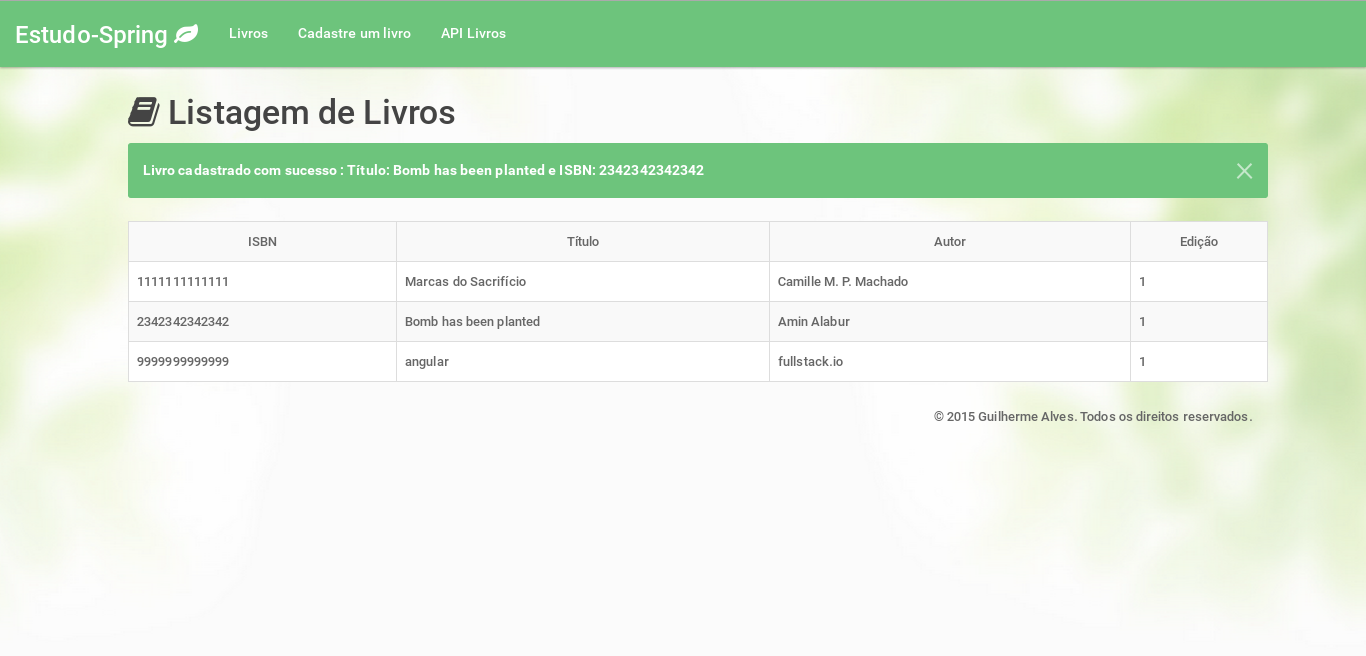
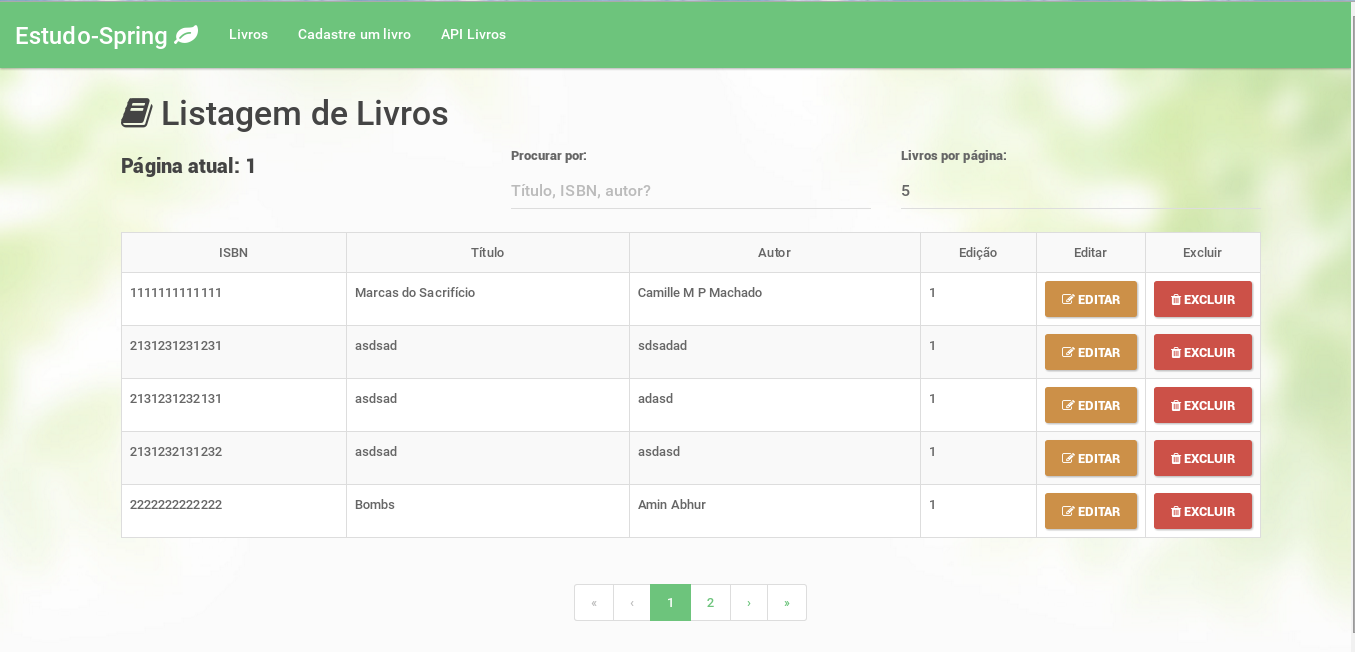
Implementando paginação para a lista de livros. Versão 1.2.1-RC4.

diff --git a/src/main/webapp/app/assets/dist/scripts/scripts.min.js b/src/main/webapp/app/assets/dist/scripts/scripts.min.js
@@ -1,6 +1,6 @@
 /*!
- * estudo-spring v1.2.0-RC4 (http://github.com/gsag/estudo-spring)
- * 31/10/2015 Guilherme Alves <gsag.dh@gmail.com>
+ * estudo-spring v1.2.1-RC4 (http://github.com/gsag/estudo-spring)
+ * 02/11/2015 Guilherme Alves <gsag.dh@gmail.com>
  * Licensed under the MIT license
  */
-!function(){"use strict";angular.module("bookcaseApp",["ui.router","ngStorage","ui.mask","restangular","ngMessages"]),angular.module("bookcaseApp").constant("$config",{baseUrl:"http://localhost:9090",bookApi:"/bookcase/api/",projectName:"Estudo-Spring"}),angular.module("bookcaseApp").config(function($stateProvider,$urlRouterProvider,$config,RestangularProvider){RestangularProvider.setBaseUrl($config.baseUrl+$config.bookApi),$stateProvider.state("bookcase",{url:"/bookcase",templateUrl:"assets/views/partial-bookcase.html",controller:"bookcaseController"}).state("books",{url:"/bookcase/books",templateUrl:"assets/views/partial-books.html",controller:"bookcaseController"}).state("register",{url:"/bookcase/register",templateUrl:"assets/views/partial-register-book.html",controller:"registerBookController"}),$urlRouterProvider.otherwise("/bookcase")}).run(function($state){$state.go("bookcase")})}(),function(){"use strict";angular.module("bookcaseApp").controller("bookcaseController",function($scope,bookcaseService,$localStorage,HTTPCache,$state,$stateParams){$scope.errorMessage="",$scope.books={},$scope.hasBooks=!0,$scope.flashMessage="";var hasBooksLoaded=(function(){bookcaseService.getBooks().then(function(data){$scope.books=data},function(error){$scope.errorMessage="Aconteceu um problema ao resgatar os dados do servidor. Tente novamente mais tarde. "})["finally"](function(){hasBooksLoaded(),loadLocalFlashMessage(),cacheInit()})}(),function(){0===$scope.books.length?$scope.hasBooks=!1:$scope.hasBooks=!0}),loadLocalFlashMessage=function(){$scope.flashMessage=$localStorage.flashMessage,delete $localStorage.flashMessage},removeFromBookList=function(index){index>-1&&$scope.books.splice(index,1),hasBooksLoaded()};$scope.deleteBook=function(book){bookcaseService.deleteBook(book.isbn).then(function(response){var successResponse=response[Object.keys(response)[0]];$localStorage.flashMessage=successResponse;var index=$scope.books.indexOf(book);removeFromBookList(index),$state.transitionTo($state.current,$stateParams,{reload:!0,inherit:!1,notify:!0})},function(error){$scope.errorMessage="Aconteceu um problema ao resgatar os dados do servidor. Tente novamente mais tarde. "})};var cacheInit=function(){return HTTPCache.init()}})}(),function(){"use strict";angular.module("bookcaseApp").controller("navigationController",function($scope,$config){$scope.appName=$config.projectName,$scope.baseUrl=$config.baseUrl})}(),function(){"use strict";angular.module("bookcaseApp").controller("registerBookController",function($scope,$state,$localStorage,bookcaseService){$scope.newBook={isbn:"",title:"",author:"",edition:""},$scope.responseStyle="",$scope.response={};var resetFields=function(){return{isbn:"",title:"",author:"",edition:""}};$scope.registerNewBook=function(book){bookcaseService.createBook(book).then(function(response){var successResponse=response[Object.keys(response)[0]];$scope.newBook=resetFields(),$localStorage.flashMessage=successResponse,$state.transitionTo("books")},function(failedResponse){if(failedResponse.data){var badResponse=failedResponse.data[Object.keys(failedResponse.data)[0]];"WARNING"==badResponse.status?($scope.responseStyle="alert alert-warning",$scope.response=failedResponse.data):"ERROR"==badResponse.status&&($scope.responseStyle="alert alert-danger",$scope.response=failedResponse.data)}else $scope.responseStyle="alert alert-danger",$scope.response={0:{status:"NULL",objectType:"null",objectAttributes:"null",defaultMessage:"Houve um problema ao receber a resposta do servidor.Tente novamente daqui alguns instantes."}}})}})}(),function(){"use strict";angular.module("bookcaseApp").directive("ngHref",["$config",function($config){return function(scope,element,attrs){function ngHref(event){event.target.href=$config.baseUrl+$config.bookApi+"books"}element.bind("click",ngHref)}}])}(),function(){"use strict";angular.module("bookcaseApp").factory("BookApi",function(Restangular){return Restangular.all("books")})}(),function(){"use strict";angular.module("bookcaseApp").factory("HTTPCache",["Restangular","$cacheFactory",function(Restangular,$cacheFactory){var cache,service={};return service.init=function(){cache=$cacheFactory("http"),Restangular.setDefaultHttpFields({cache:cache}),Restangular.setResponseInterceptor(function(response,operation){return("put"===operation||"post"===operation||"remove"===operation)&&cache.removeAll(),response})},service}])}(),function(){"use strict";angular.module("bookcaseApp").service("bookcaseService",function(BookApi,Restangular){var _getBooks=function(){return BookApi.getList()},_createBook=function(newBook){return BookApi.post(newBook)},_deleteBook=function(isbn){return Restangular.one("delete",isbn).remove()};return{getBooks:_getBooks,createBook:_createBook,deleteBook:_deleteBook}})}();
+!function(){"use strict";angular.module("bookcaseApp",["ui.router","ngStorage","ui.mask","restangular","ngMessages","angularUtils.directives.dirPagination"]),angular.module("bookcaseApp").constant("$config",{baseUrl:"http://localhost:9090",bookApi:"/bookcase/api/",projectName:"Estudo-Spring"}),angular.module("bookcaseApp").config(function($stateProvider,$urlRouterProvider,$config,RestangularProvider){RestangularProvider.setBaseUrl($config.baseUrl+$config.bookApi),$stateProvider.state("bookcase",{url:"/bookcase",templateUrl:"assets/views/partial-bookcase.html",controller:"bookcaseController"}).state("books",{url:"/bookcase/books",templateUrl:"assets/views/partial-books.html",controller:"bookcaseController"}).state("register",{url:"/bookcase/register",templateUrl:"assets/views/partial-register-book.html",controller:"registerBookController"}),$urlRouterProvider.otherwise("/bookcase")}).run(function($state){$state.go("bookcase")})}(),function(){"use strict";angular.module("bookcaseApp").controller("bookcaseController",function($scope,bookcaseService,$localStorage,HTTPCache,$state,$stateParams){$scope.errorMessage="",$scope.books=[],$scope.hasBooks=!0,$scope.flashMessage="",$scope.pagination={currentPage:1,pageSize:5};var hasBooksLoaded=(function(){bookcaseService.getBooks().then(function(data){for(var i=0;i<data.length;i++)$scope.books.push(data[i])},function(error){$scope.errorMessage="Aconteceu um problema ao resgatar os dados do servidor. Tente novamente mais tarde. "})["finally"](function(){hasBooksLoaded(),loadLocalFlashMessage(),cacheInit()})}(),function(){0===$scope.books.length?$scope.hasBooks=!1:$scope.hasBooks=!0}),loadLocalFlashMessage=function(){$scope.flashMessage=$localStorage.flashMessage,delete $localStorage.flashMessage},removeFromBookList=function(index){index>-1&&$scope.books.splice(index,1),hasBooksLoaded()};$scope.deleteBook=function(book){bookcaseService.deleteBook(book.isbn).then(function(response){var successResponse=response[Object.keys(response)[0]];$localStorage.flashMessage=successResponse;var index=$scope.books.indexOf(book);removeFromBookList(index),$state.transitionTo($state.current,$stateParams,{reload:!0,inherit:!1,notify:!0})},function(error){$scope.errorMessage="Aconteceu um problema ao resgatar os dados do servidor. Tente novamente mais tarde. "})};var cacheInit=function(){return HTTPCache.init()}})}(),function(){"use strict";angular.module("bookcaseApp").controller("navigationController",function($scope,$config){$scope.appName=$config.projectName,$scope.baseUrl=$config.baseUrl})}(),function(){"use strict";angular.module("bookcaseApp").controller("registerBookController",function($scope,$state,$localStorage,bookcaseService){$scope.newBook={isbn:"",title:"",author:"",edition:""},$scope.responseStyle="",$scope.response={};var resetFields=function(){return{isbn:"",title:"",author:"",edition:""}};$scope.registerNewBook=function(book){bookcaseService.createBook(book).then(function(response){var successResponse=response[Object.keys(response)[0]];$scope.newBook=resetFields(),$localStorage.flashMessage=successResponse,$state.transitionTo("books")},function(failedResponse){if(failedResponse.data){var badResponse=failedResponse.data[Object.keys(failedResponse.data)[0]];"WARNING"==badResponse.status?($scope.responseStyle="alert alert-warning",$scope.response=failedResponse.data):"ERROR"==badResponse.status&&($scope.responseStyle="alert alert-danger",$scope.response=failedResponse.data)}else $scope.responseStyle="alert alert-danger",$scope.response={0:{status:"NULL",objectType:"null",objectAttributes:"null",defaultMessage:"Houve um problema ao receber a resposta do servidor.Tente novamente daqui alguns instantes."}}})}})}(),function(){"use strict";angular.module("bookcaseApp").directive("ngHref",["$config",function($config){return function(scope,element,attrs){function ngHref(event){event.target.href=$config.baseUrl+$config.bookApi+"books"}element.bind("click",ngHref)}}])}(),function(){"use strict";angular.module("bookcaseApp").factory("BookApi",function(Restangular){var _getAll=function(){return Restangular.all("books")},_getOne=function(path,param){return Restangular.one(path,param)};return{getAll:_getAll,getOne:_getOne}})}(),function(){"use strict";angular.module("bookcaseApp").factory("HTTPCache",["Restangular","$cacheFactory",function(Restangular,$cacheFactory){var cache,service={};return service.init=function(){cache=$cacheFactory("http"),Restangular.setDefaultHttpFields({cache:cache}),Restangular.setResponseInterceptor(function(response,operation){return("put"===operation||"post"===operation||"remove"===operation)&&cache.removeAll(),response})},service}])}(),function(){"use strict";angular.module("bookcaseApp").service("bookcaseService",function(BookApi,Restangular){var _getBooks=function(){return BookApi.getAll().getList()},_createBook=function(newBook){return BookApi.getAll().post(newBook)},_deleteBook=function(isbn){return Restangular.getOne("delete",isbn).remove()};return{getBooks:_getBooks,createBook:_createBook,deleteBook:_deleteBook}})}();

diff --git a/src/main/webapp/app/assets/dist/styles/styles.min.css b/src/main/webapp/app/assets/dist/styles/styles.min.css
@@ -1,1 +1,1 @@
-.brand>a:hover,.brand>i:hover,.navbar li:hover{text-shadow:0 3px 3px #379c48}.brand>a,.brand>i,.navbar li a{color:#fff!important}.title,body{font-weight:500}.alert span,.navbar li a{font-size:1.1em}.bg-color-primary-0{background-color:#379c48}.bg-color-primary-0-1{background-color:#5fb76e}.bg-color-primary-1{background-color:#bae8c2}.bg-color-primary-2{background-color:#6dc47c}.bg-color-primary-3{background-color:#167928}.bg-color-primary-4{background-color:#00450c}.bg-color-secondary-1-0{background-color:#326482}.bg-color-secondary-1-1{background-color:#b2ccdb}.bg-color-secondary-1-2{background-color:#5f8aa3}.bg-color-secondary-1-3{background-color:#174865}.bg-color-secondary-1-4{background-color:#03253a}.bg-color-secondary-2-0{background-color:#cc9048}.bg-color-secondary-2-1{background-color:#ffe8cc}.bg-color-secondary-2-2{background-color:#ffcc8e}.bg-color-secondary-2-3{background-color:#9f641d}.bg-color-secondary-2-4{background-color:#5b3200}.bg-color-complement-0{background-color:#cc5148}.bg-color-complement-1{background-color:#ffd0cc}.bg-color-complement-2{background-color:#ff968e}.bg-color-complement-3{background-color:#9f261d}.bg-color-complement-4{background-color:#5b0700}body{background:url(../images/bg.png) center center no-repeat fixed;-webkit-background-size:cover;-moz-background-size:cover;-o-background-size:cover;background-size:cover}.link{cursor:pointer;cursor:hand}.brand,.brand:hover,.navbar-nav>li:hover{transition:text-shadow .1s ease-in-out}.navbar li{border-bottom:2px solid transparent}.navbar li:hover{background-color:#5fb76e;border-bottom:2px solid #fff}.title{padding-top:70px}table{background-color:#fff}.scroll{overflow-y:auto;min-height:230px}[contenteditable].form-control:focus,[type=email].form-control:focus,[type=password].form-control:focus,[type=tel].form-control:focus,[type=text].form-control:focus,input.form-control:focus,input[type=email]:focus,input[type=number]:focus,input[type=password]:focus,input[type=text]:focus,textarea.form-control:focus,textarea:focus{-webkit-box-shadow:inset 0 -2px 0 #b2ccdb!important;box-shadow:inset 0 -2px 0 #b2ccdb!important}.btn-success.disabled,.btn-success[disabled]{background-color:#ddd;border-color:transparent}.btn-success.disabled:active,.btn-success.disabled:hover,.btn-success[disabled]:active,.btn-success[disabled]:hover{background-color:#ddd;border-color:transparent;cursor:not-allowed;text-shadow:none;-webkit-box-shadow:none;box-shadow:none}.btn-success{color:#fff;border-color:transparent}.btn-success:active,.btn-success:focus,.btn-success:hover{background-color:#6dc47c;text-shadow:0 3px 3px #379c48;-webkit-box-shadow:0 3px 10px 0 rgba(0,0,0,.16),0 2px 10px 0 rgba(0,0,0,.12);box-shadow:0 3px 10px 0 rgba(0,0,0,.16),0 2px 10px 0 rgba(0,0,0,.12);-webkit-transition:all .3s ease-out;-moz-transition:all .3s ease-out;-o-transition:all .3s ease-out;-ms-transition:all .3s ease-out;transition:all .3s ease-out}.has-error{-webkit-box-shadow:inset 0 -2px 0 #cc5148!important;box-shadow:inset 0 -2px 0 #cc5148!important}.errorText div{margin-top:1em;background-color:#ffd0cc;color:#9f261d;padding-left:.5em;padding-right:.5em}#form-group .ng-valid{-webkit-box-shadow:inset 0 -2px 0 #6dc47c!important;box-shadow:inset 0 -2px 0 #6dc47c!important}.alert-danger,.btn-danger{background-color:#cc5148}.alert-warning,.btn-warning{background-color:#cc9048}.alert-info,.btn-info{background-color:#5f8aa3}.alert-success,.btn-success{background-color:#6dc47c}
+.brand>a:hover,.brand>i:hover,.navbar li:hover{text-shadow:0 3px 3px #379c48}.brand>a,.brand>i,.navbar li a{color:#fff!important}.title,body{font-weight:500}.alert span,.navbar li a{font-size:1.1em}.bg-color-primary-0{background-color:#379c48}.bg-color-primary-0-1{background-color:#5fb76e}.bg-color-primary-1{background-color:#bae8c2}.bg-color-primary-2{background-color:#6dc47c}.bg-color-primary-3{background-color:#167928}.bg-color-primary-4{background-color:#00450c}.bg-color-secondary-1-0{background-color:#326482}.bg-color-secondary-1-1{background-color:#b2ccdb}.bg-color-secondary-1-2{background-color:#5f8aa3}.bg-color-secondary-1-3{background-color:#174865}.bg-color-secondary-1-4{background-color:#03253a}.bg-color-secondary-2-0{background-color:#cc9048}.bg-color-secondary-2-1{background-color:#ffe8cc}.bg-color-secondary-2-2{background-color:#ffcc8e}.bg-color-secondary-2-3{background-color:#9f641d}.bg-color-secondary-2-4{background-color:#5b3200}.bg-color-complement-0{background-color:#cc5148}.bg-color-complement-1{background-color:#ffd0cc}.bg-color-complement-2{background-color:#ff968e}.bg-color-complement-3{background-color:#9f261d}.bg-color-complement-4{background-color:#5b0700}body{background:url(../images/bg.png) center center no-repeat fixed;-webkit-background-size:cover;-moz-background-size:cover;-o-background-size:cover;background-size:cover}.link{cursor:pointer;cursor:hand}.brand,.brand:hover,.navbar-nav>li:hover{transition:text-shadow .1s ease-in-out}.navbar li{border-bottom:2px solid transparent}.navbar li:hover{background-color:#5fb76e;border-bottom:2px solid #fff}.title{padding-top:70px}table{background-color:#fff}.scroll{overflow-y:auto;min-height:230px}[contenteditable].form-control:focus,[type=email].form-control:focus,[type=password].form-control:focus,[type=tel].form-control:focus,[type=text].form-control:focus,input.form-control:focus,input[type=email]:focus,input[type=number]:focus,input[type=password]:focus,input[type=text]:focus,textarea.form-control:focus,textarea:focus{-webkit-box-shadow:inset 0 -2px 0 #b2ccdb!important;box-shadow:inset 0 -2px 0 #b2ccdb!important}.btn-success.disabled,.btn-success[disabled]{background-color:#ddd;border-color:transparent}.btn-success.disabled:active,.btn-success.disabled:hover,.btn-success[disabled]:active,.btn-success[disabled]:hover{background-color:#ddd;border-color:transparent;cursor:not-allowed;text-shadow:none;-webkit-box-shadow:none;box-shadow:none}.btn-success{color:#fff;border-color:transparent}.btn-success:active,.btn-success:focus,.btn-success:hover{background-color:#6dc47c;text-shadow:0 3px 3px #379c48;-webkit-box-shadow:0 3px 10px 0 rgba(0,0,0,.16),0 2px 10px 0 rgba(0,0,0,.12);box-shadow:0 3px 10px 0 rgba(0,0,0,.16),0 2px 10px 0 rgba(0,0,0,.12);-webkit-transition:all .3s ease-out;-moz-transition:all .3s ease-out;-o-transition:all .3s ease-out;-ms-transition:all .3s ease-out;transition:all .3s ease-out}.has-error{-webkit-box-shadow:inset 0 -2px 0 #cc5148!important;box-shadow:inset 0 -2px 0 #cc5148!important}.errorText div{margin-top:1em;background-color:#ffd0cc;color:#9f261d;padding-left:.5em;padding-right:.5em}#form-group .ng-valid{-webkit-box-shadow:inset 0 -2px 0 #6dc47c!important;box-shadow:inset 0 -2px 0 #6dc47c!important}.alert-danger,.btn-danger{background-color:#cc5148}.alert-warning,.btn-warning{background-color:#cc9048}.alert-info,.btn-info{background-color:#5f8aa3}.alert-success,.btn-success{background-color:#6dc47c}.pagination .active a,.pagination .active a:focus,.pagination .active a:hover,.pagination .active span,.pagination .active span:focus,.pagination .active span:hover{background-color:#6dc47c;border-color:#6dc47c}.pagination li a,.pagination li a:hover{color:#6dc47c}

diff --git a/src/main/webapp/app/assets/views/partial-books.html b/src/main/webapp/app/assets/views/partial-books.html
@@ -9,6 +9,21 @@
                 <strong ng-bind-template="{{flashMessage.defaultMessage}} : Título: {{flashMessage.objectAttributes.title}} e ISBN: {{flashMessage.objectAttributes.isbn}}"></strong>
             </span>
         </div>
+        <div class="row">
+            <div class="col-md-4">
+               <h5>Página atual: {{ pagination.currentPage }}</h5>
+            </div>
+            <div class="col-md-4">
+               <label for="search">Procurar por:</label>
+               <input ng-model="query" id="search" class="form-control" placeholder="Título, ISBN, autor?">
+            </div>
+            <div class="col-md-4">
+               <label for="amount">Livros por página:</label>               
+               <input type="number" min="1" max="100" class="form-control" ng-model="pagination.pageSize"
+                minlength="1" maxlength="3" pattern="[1-9]{1,3}">
+            </div>
+        </div>
+        <br/>
         <table class="table table-hover table-bordered table-striped" 
             ng-if="hasBooks && errorMessage == ''">
             <div class="alert alert-warning" role="alert" ng-if="!hasBooks && !errorMessage">
@@ -26,8 +41,9 @@
                 <td class="text-center">Edição</td>
                 <td class="text-center">Editar</td>
                 <td class="text-center">Excluir</td>
-            </tr>
-            <tr ng-repeat="book in books | orderBy: 'isbn'">
+            </tr>            
+            <tr dir-paginate="book in books | orderBy: 'isbn' | filter: query | itemsPerPage: pagination.pageSize" 
+                current-page="pagination.currentPage">
                 <td>{{book.isbn}}</td>
                 <td>{{book.title}}</td>
                 <td>{{book.author}}</td>
@@ -44,4 +60,10 @@
                 </td>
             </tr>
         </table>
+        <div class="text-center">
+            <dir-pagination-controls
+                boundary-links="true" 
+                template-url="assets/views/dirPagination.tpl.html">
+            </dir-pagination-controls>
+        </div>
     </div>

diff --git a/src/main/webapp/app/assets/src/scripts/controllers/bookcaseController.js b/src/main/webapp/app/assets/src/scripts/controllers/bookcaseController.js
@@ -4,13 +4,20 @@
         .controller("bookcaseController", function($scope,bookcaseService,$localStorage,
                                                     HTTPCache,$state,$stateParams){
             $scope.errorMessage = "";
-            $scope.books = {};
+            $scope.books = [];
             $scope.hasBooks = true;
-            $scope.flashMessage = "";                    
+            $scope.flashMessage = "";
+
+            $scope.pagination = {
+                currentPage: 1,
+                pageSize: 5
+            };                               
 
             var loadBooks = function(){                
                 bookcaseService.getBooks().then(function(data){
-                    $scope.books = data;
+                    for(var i = 0; i < data.length; i++) {
+                        $scope.books.push(data[i]);
+                    }               
                 }, function(error){
                     $scope.errorMessage = "Aconteceu um problema ao resgatar os dados do servidor. " +
                      "Tente novamente mais tarde. ";

diff --git a/src/main/webapp/app/assets/views/dirPagination.tpl.html b/src/main/webapp/app/assets/views/dirPagination.tpl.html
@@ -1,0 +1,18 @@
+<ul class="pagination" ng-if="1 < pages.length">
+    <li ng-if="boundaryLinks" ng-class="{ disabled : pagination.current == 1 }">
+        <a href="" ng-click="setCurrent(1)">&laquo;</a>
+    </li>
+    <li ng-if="directionLinks" ng-class="{ disabled : pagination.current == 1 }" class="ng-scope">
+        <a href="" ng-click="setCurrent(pagination.current - 1)" class="ng-binding">‹</a>
+    </li>
+    <li ng-repeat="pageNumber in pages track by $index" ng-class="{ active : pagination.current == pageNumber, disabled : pageNumber == '...' }">
+        <a href="" ng-click="setCurrent(pageNumber)">{{ pageNumber }}</a>
+    </li>
+
+    <li ng-if="directionLinks" ng-class="{ disabled : pagination.current == pagination.last }" class="ng-scope">
+        <a href="" ng-click="setCurrent(pagination.current + 1)" class="ng-binding">›</a>
+    </li>
+    <li ng-if="boundaryLinks"  ng-class="{ disabled : pagination.current == pagination.last }">
+        <a href="" ng-click="setCurrent(pagination.last)">&raquo;</a>
+    </li>
+</ul>

diff --git a/src/main/webapp/app/assets/src/scripts/app.js b/src/main/webapp/app/assets/src/scripts/app.js
@@ -1,7 +1,8 @@
 (function () {
     'use strict';
 
-    angular.module("bookcaseApp", ['ui.router','ngStorage','ui.mask','restangular','ngMessages']);
+    angular.module("bookcaseApp", ['ui.router','ngStorage','ui.mask','restangular','ngMessages',
+                                   'angularUtils.directives.dirPagination']);
 
     angular.module("bookcaseApp")
         .constant("$config",{
@@ -12,7 +13,7 @@
 
     angular.module("bookcaseApp")
         .config(function($stateProvider, $urlRouterProvider, $config, RestangularProvider){
-          
+            
             RestangularProvider.setBaseUrl($config.baseUrl+$config.bookApi);
 
             $stateProvider

diff --git a/src/main/webapp/app/assets/src/styles/custom.less b/src/main/webapp/app/assets/src/styles/custom.less
@@ -162,3 +162,34 @@
     	background-color: @color-success;
 	}
 	/* end alert colors */
+
+	/* pagination */
+	.pagination >{
+		.active >{
+			a{
+				background-color: @color-success;
+    			border-color: @color-success;
+				&:hover,&:focus{
+					background-color: @color-success;
+    				border-color: @color-success;
+				}
+			}
+			span{
+				background-color: @color-success;
+    			border-color: @color-success;
+				&:hover,&:focus{
+					background-color: @color-success;
+    				border-color: @color-success;
+				}
+			}
+		}
+		li >{
+			a{
+				color: @color-success;
+				&:hover{
+					color: @color-success;
+				}
+			}
+		}
+	}
+	/* end pagination */ 

diff --git a/src/main/webapp/app/assets/src/styles/custom.css b/src/main/webapp/app/assets/src/styles/custom.css
@@ -203,3 +203,29 @@ input[type=number]:focus,
   background-color: #6dc47c;
 }
 /* end alert colors */
+/* pagination */
+.pagination .active a {
+  background-color: #6dc47c;
+  border-color: #6dc47c;
+}
+.pagination .active a:hover,
+.pagination .active a:focus {
+  background-color: #6dc47c;
+  border-color: #6dc47c;
+}
+.pagination .active span {
+  background-color: #6dc47c;
+  border-color: #6dc47c;
+}
+.pagination .active span:hover,
+.pagination .active span:focus {
+  background-color: #6dc47c;
+  border-color: #6dc47c;
+}
+.pagination li a {
+  color: #6dc47c;
+}
+.pagination li a:hover {
+  color: #6dc47c;
+}
+/* end pagination */

diff --git a/src/main/webapp/app/assets/src/scripts/services/bookcaseService.js b/src/main/webapp/app/assets/src/scripts/services/bookcaseService.js
@@ -3,13 +3,13 @@
 	angular.module("bookcaseApp")
 		.service("bookcaseService", function(BookApi,Restangular){
 			var _getBooks = function(){				
-				return BookApi.getList();
+				return BookApi.getAll().getList();
 			};
 			var _createBook = function(newBook){
-				return BookApi.post(newBook);
+				return BookApi.getAll().post(newBook);
 			};
 			var _deleteBook = function(isbn){
-				return Restangular.one("delete",isbn).remove();
+				return Restangular.getOne("delete",isbn).remove();
 			};
 			return{
 				getBooks: _getBooks,

diff --git a/src/main/webapp/app/index.html b/src/main/webapp/app/index.html
@@ -69,6 +69,7 @@
     <script src="bower_components/bootswatch-dist/js/bootstrap.min.js"></script>
     <script src="bower_components/ngstorage/ngStorage.min.js"></script>
     <script src="bower_components/angular-ui-mask/dist/mask.js"></script>
+    <script src="bower_components/angularUtils-pagination/dirPagination.js"></script>
     <!-- CUSTOM SCRIPTS -->
     <script src="assets/dist/scripts/scripts.min.js"></script>
 </body>

diff --git a/src/main/webapp/app/assets/src/scripts/factories/BookApiFactory.js b/src/main/webapp/app/assets/src/scripts/factories/BookApiFactory.js
@@ -3,6 +3,15 @@
 
     angular.module("bookcaseApp")
 	    .factory("BookApi", function (Restangular) {
-		    return Restangular.all('books');
+	    	var _getAll = function(){
+	    		return Restangular.all('books');
+	    	};
+	    	var _getOne = function(path,param){
+	    		return Restangular.one(path,param);
+	    	};
+		    return {
+		    	getAll: _getAll,
+		    	getOne: _getOne
+		    };
 		});
 }());
